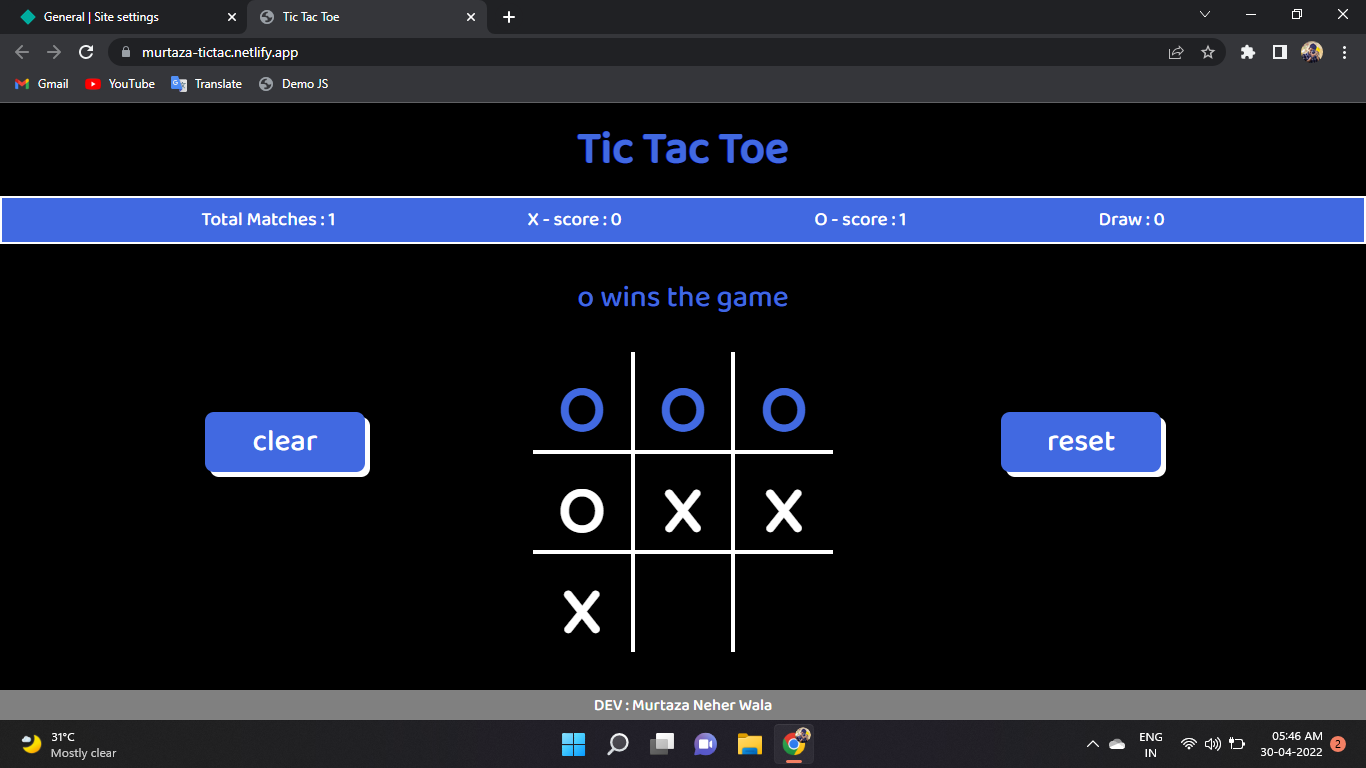
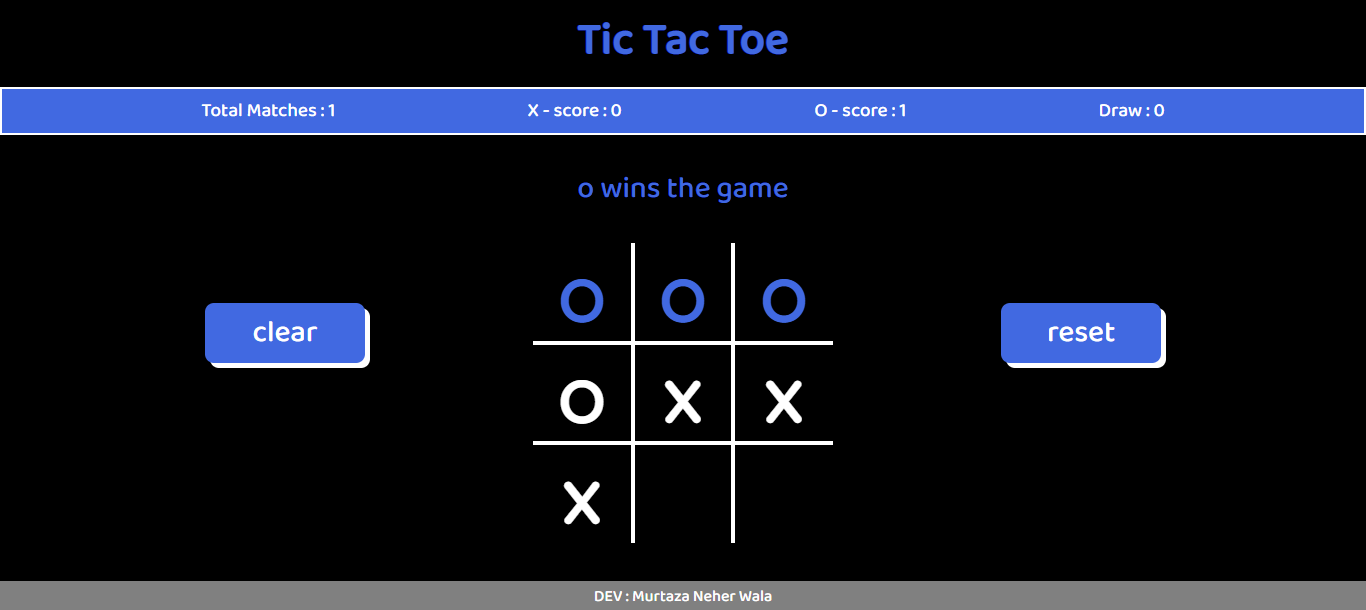
projects preview image update

diff --git a/index.html b/index.html
@@ -88,7 +88,7 @@
         <div id="projects">
 
             <div class="box" onclick=window.location.href="https://murtaza-tictac.netlify.app/">
-                <img src="images/projeccts/tic01.png" alt="" srcset="">
+                <img src="images/projeccts/tic02.png" alt="" srcset="">
                 <h2 class="project-name">Tic Tac Toe</h2>
             </div>
 
